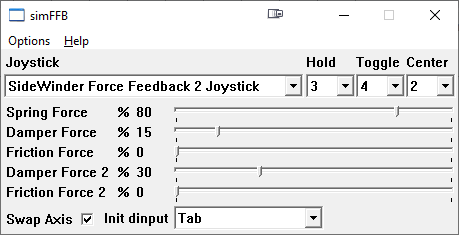
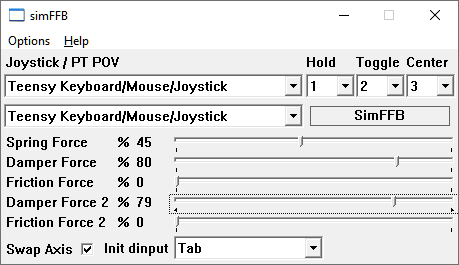
added independent damper/friction

Changed region(s): [[0.0, 0.0, 1.0, 0.8638], [0.244, 0.5064, 1.0, 0.983], [0.0, 0.8936, 0.2135, 0.983]]

diff --git a/simFFB.cpp b/simFFB.cpp
@@ -241,7 +241,7 @@ BOOL InitInstance(HINSTANCE hInstance, int nCmdShow)
     SendMessage(hwndTBDamper2, TBM_SETPOS,(WPARAM) TRUE,(LPARAM) 55);
 
     CreateWindow(_T("static"),_T("Friction Force 2\t%"),WS_CHILD|WS_VISIBLE,5,163,130,20,hWnd,NULL,hInstance,NULL);
-    hwndEBFriction2=CreateWindow(_T("Edit"),_T("55"),WS_CHILD|WS_VISIBLE|ES_LEFT|ES_NUMBER|ES_READONLY,155,163,30,20,hWnd,NULL,hInstance,NULL);
+    hwndEBFriction2=CreateWindow(_T("Edit"),_T("55"),WS_CHILD|WS_VISIBLE|ES_LEFT|ES_NUMBER|ES_READONLY,135,163,30,20,hWnd,NULL,hInstance,NULL);
     hwndTBFriction2=CreateWindow(TRACKBAR_CLASS,NULL,WS_CHILD|WS_VISIBLE |TBS_ENABLESELRANGE,168,163,290,20,hWnd,NULL,hInstance,NULL);
     SendMessage(hwndTBFriction2, TBM_SETRANGE,(WPARAM) TRUE,(LPARAM) MAKELONG(0, 100));
     SendMessage(hwndTBFriction2, TBM_SETPAGESIZE,0, (LPARAM) 1);
